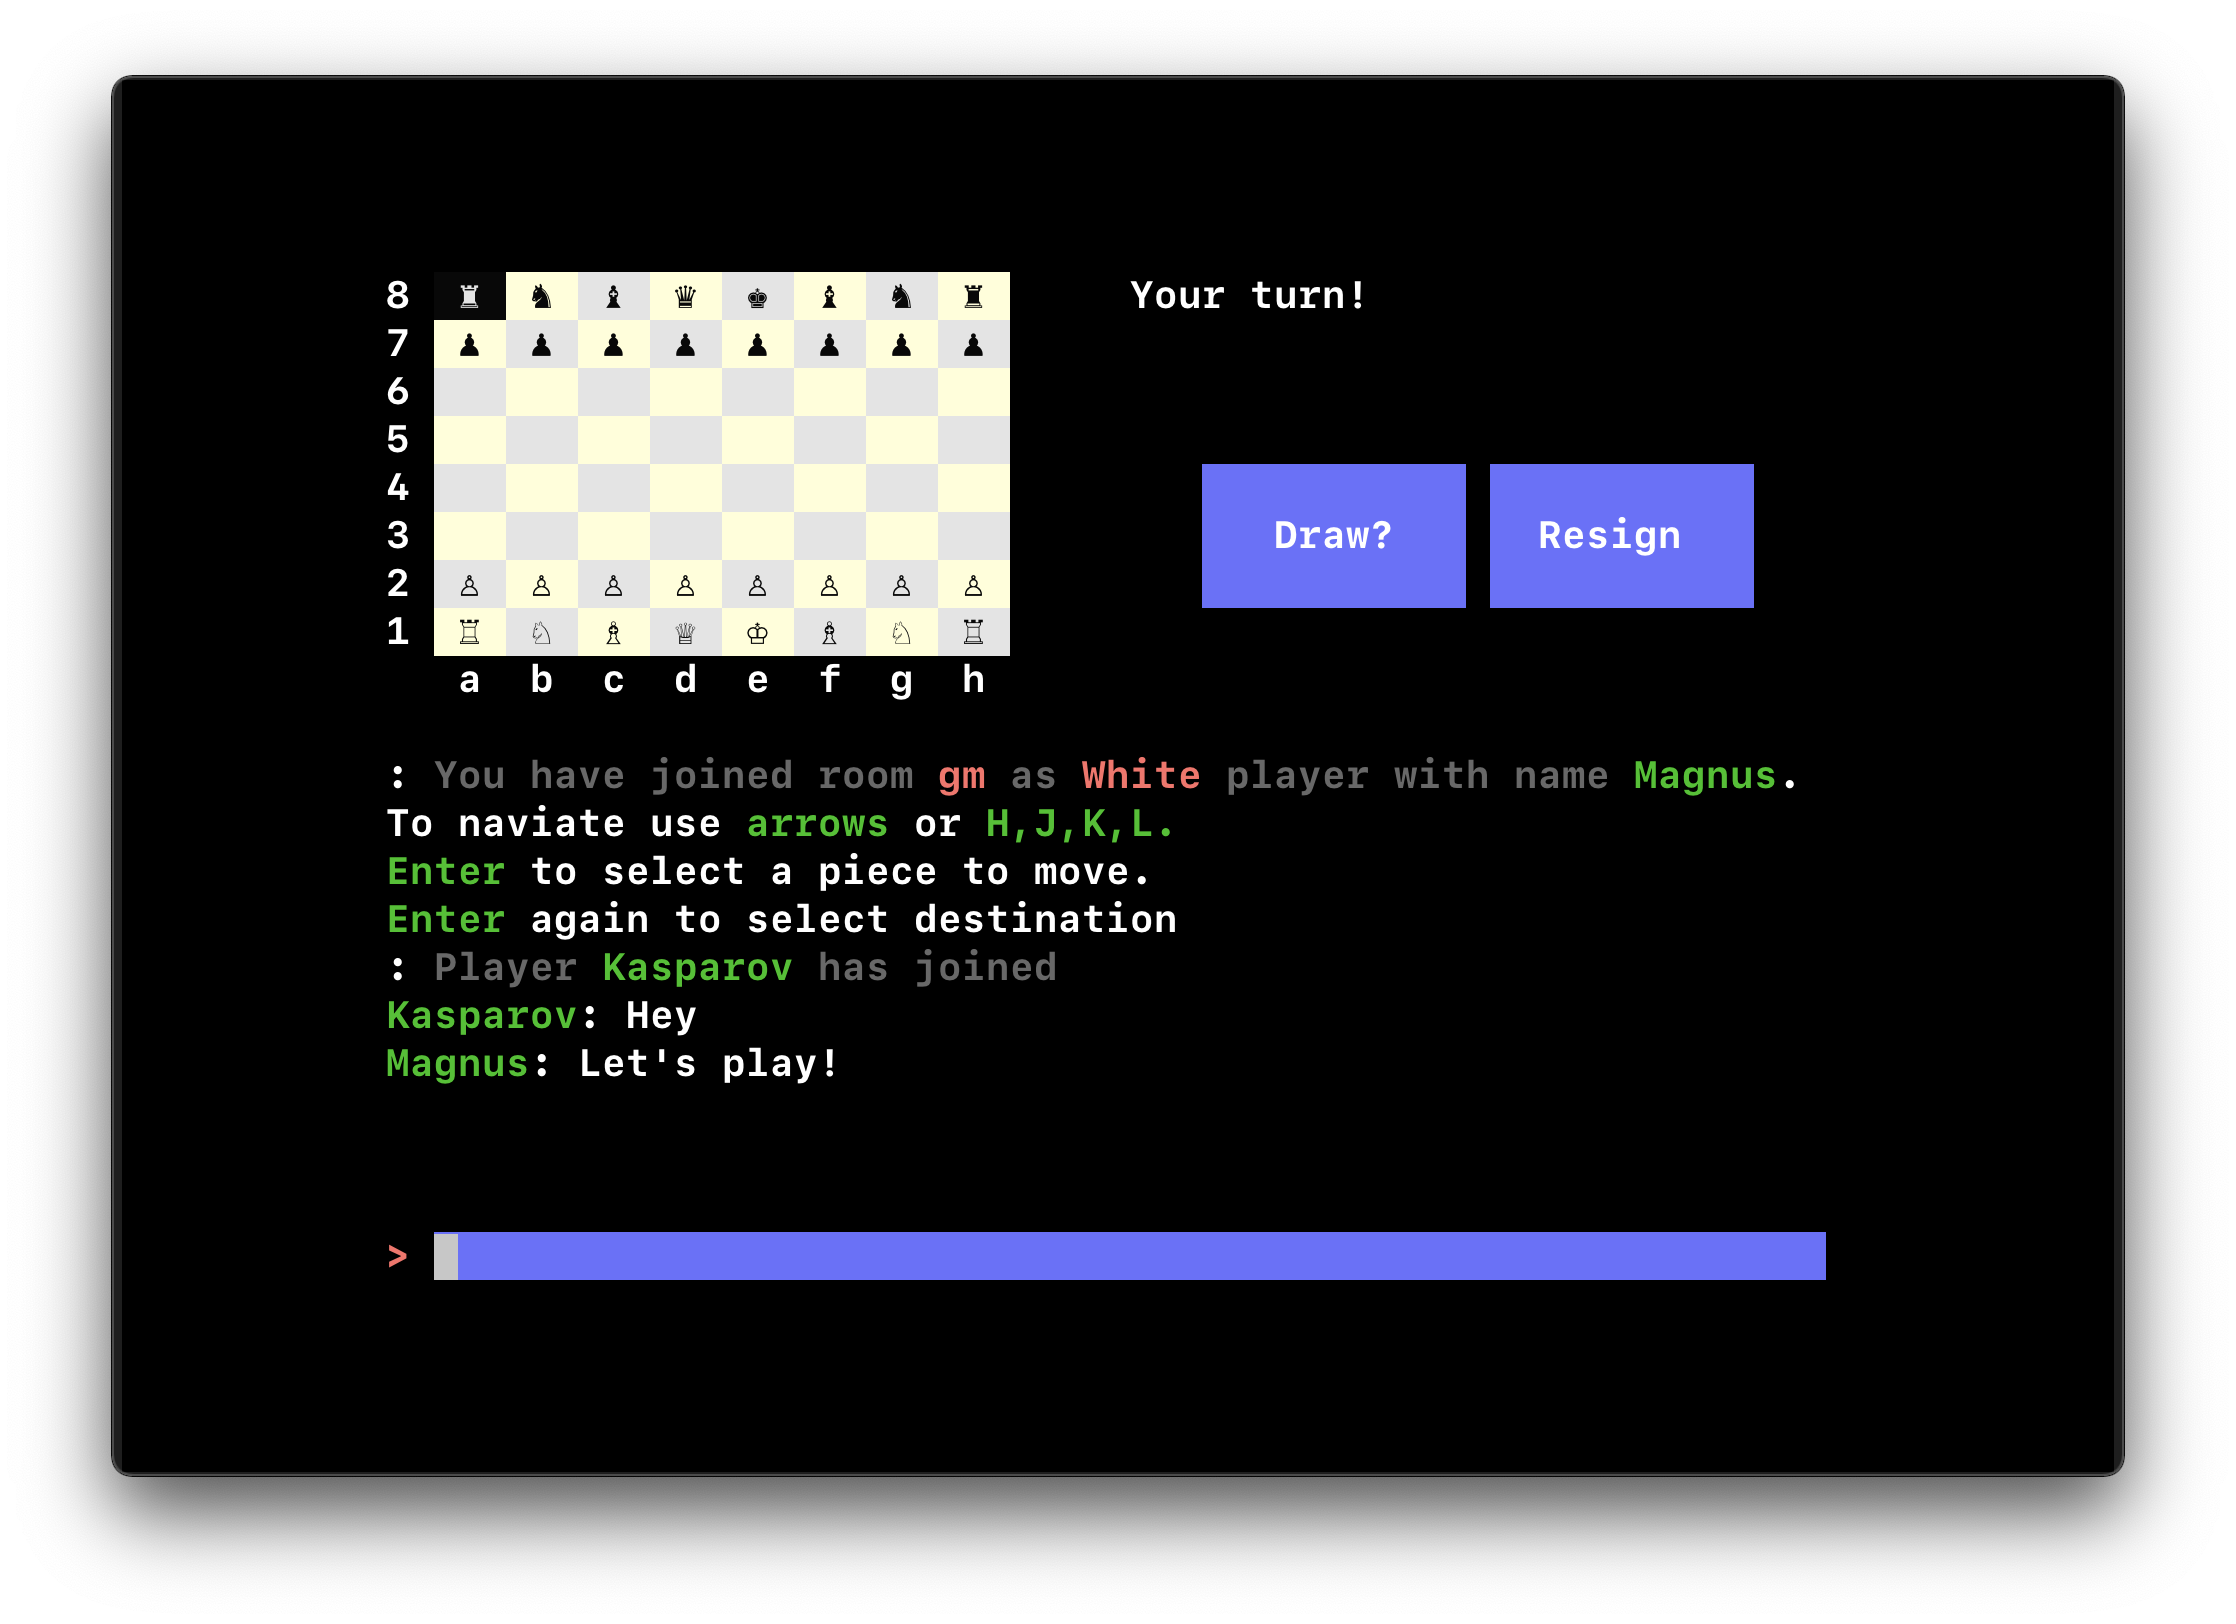
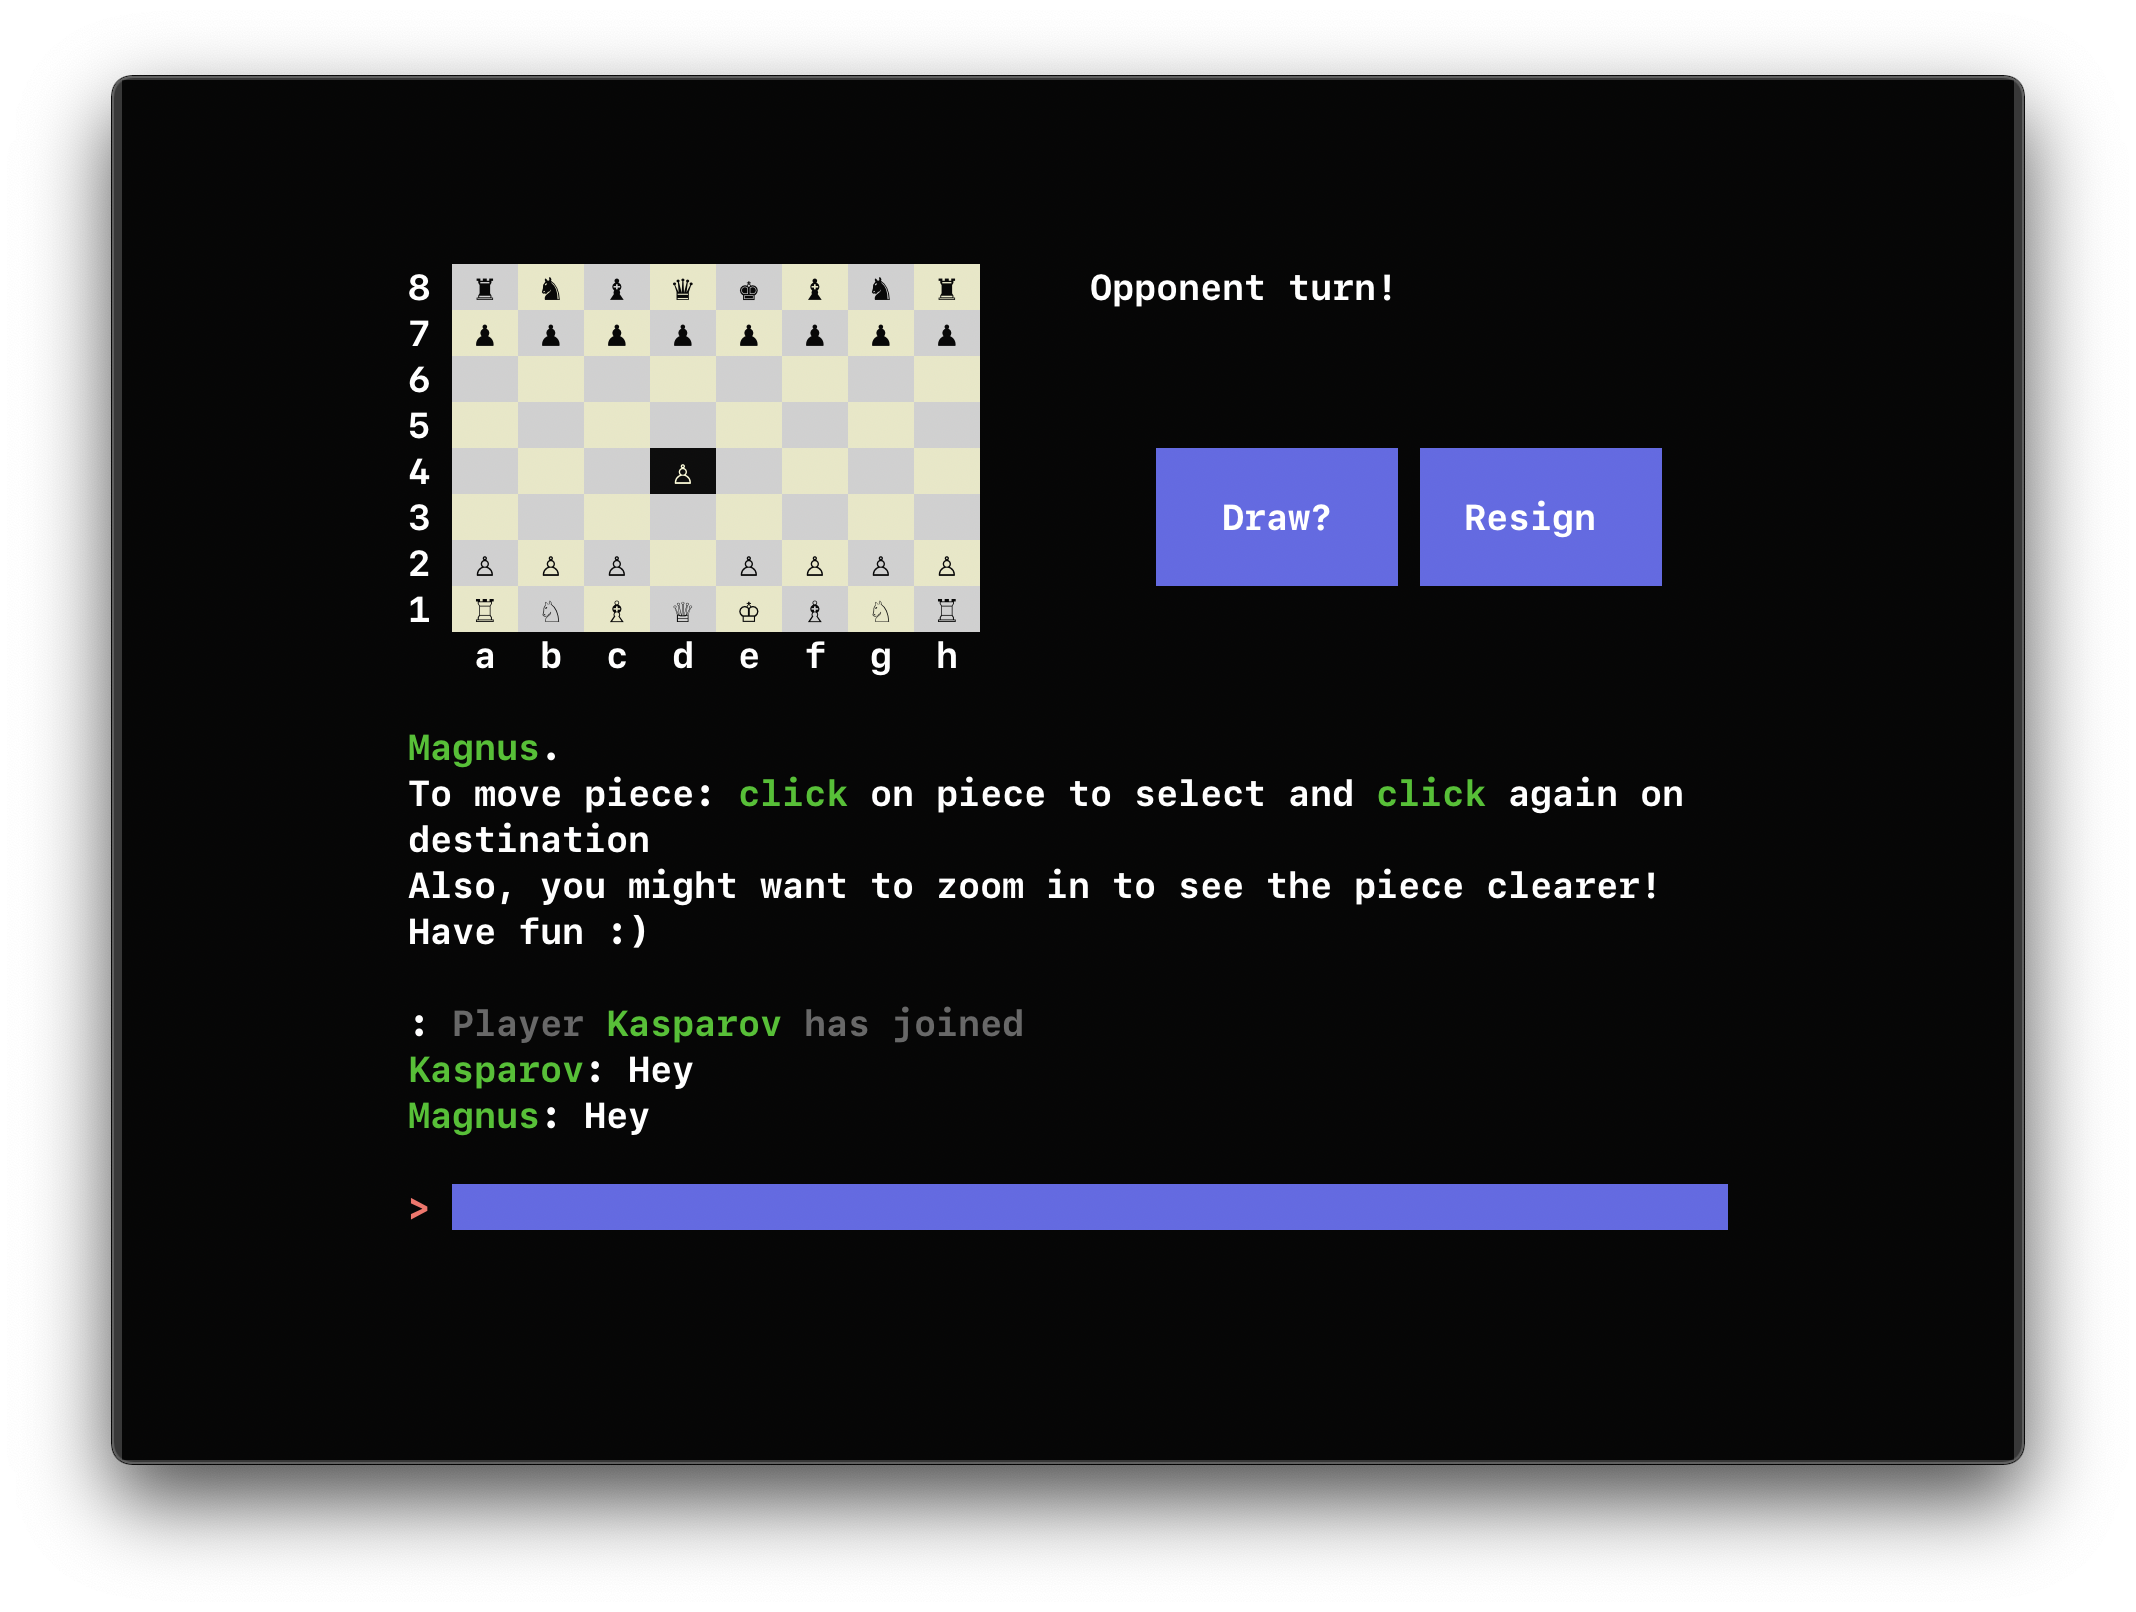
move use mouse instead of keyboard

diff --git a/pkg/client.go b/pkg/client.go
@@ -13,19 +13,19 @@ import (
 )
 
 type Client struct {
-	Game          *chess.Game
-	App           *tview.Application
-	Board         *tview.Table
-	GameLayout    *tview.Grid
-	MenuLayout    *tview.Grid
-	Conn          net.Conn
-	In            chan MessageInterface
-	Out           chan MessageInterface
-	selecting     bool
-	lastSelection chess.Square
-	Role          PlayerRole
-	optionBtn1    *tview.Button // Draw, Accept, Yes
-	optionBtn2    *tview.Button // Resign, Reject, No
+	Game              *chess.Game
+	App               *tview.Application
+	Board             *tview.Table
+	GameLayout        *tview.Grid
+	MenuLayout        *tview.Grid
+	Conn              net.Conn
+	In                chan MessageInterface
+	Out               chan MessageInterface
+	selecting         bool
+	lastSelectedPiece chess.Square
+	Role              PlayerRole
+	optionBtn1        *tview.Button // Draw, Accept, Yes
+	optionBtn2        *tview.Button // Resign, Reject, No
 }
 
 var (
@@ -326,19 +326,24 @@ func (cl *Client) initBoard() {
 		if key == tcell.KeyEnter {
 			cl.Board.SetSelectable(true, true)
 		}
-	}).SetSelectedFunc(func(row, col int) {
+	}).SetSelectionChangedFunc(func(row, col int) {
 		sq := cl.posToSquare(row, col)
+		p := cl.Game.Position().Board().Piece(sq)
+		if (!cl.selecting && p == chess.NoPiece) ||
+			(cl.Role == White && p.Color() == chess.Black && !cl.selecting) ||
+			(cl.Role == Black && p.Color() == chess.White && !cl.selecting) {
+			return
+		}
 
 		if cl.selecting {
-			if sq == cl.lastSelection { // chose the last move to deactivate
+			if sq == cl.lastSelectedPiece { // chose the last move to deactivate
 				cl.selecting = false
 				cl.Board.GetCell(row, col).SetBackgroundColor(squareToColor(sq)) // Reset color
-				cl.lastSelection = 0
+				cl.lastSelectedPiece = 0
 			} else { // Chosing destination
-				move := fmt.Sprintf("%s%s", cl.lastSelection.String(), sq.String())
+				move := fmt.Sprintf("%s%s", cl.lastSelectedPiece.String(), sq.String())
 				validMoves := cl.Game.ValidMoves()
 				isValid := false
-				p := cl.Game.Position().Board().Piece(cl.lastSelection)
 				if p.Type() == chess.Pawn && ((move[1] == '7' && move[3] == '8') || move[1] == '2' && move[3] == '1') { // Auto promoting to Queen
 					move += "q"
 				}
@@ -348,28 +353,27 @@ func (cl *Client) initBoard() {
 					}
 				}
 				if !isValid {
-					last_row, last_col := cl.squareToPos(cl.lastSelection)
-					cl.Board.GetCell(last_row, last_col).SetBackgroundColor(squareToColor(cl.lastSelection)) // Reset color
+					last_row, last_col := cl.squareToPos(cl.lastSelectedPiece)
+					cl.Board.GetCell(last_row, last_col).SetBackgroundColor(squareToColor(cl.lastSelectedPiece)) // Reset color
 
 					cl.selecting = false
-					cl.lastSelection = 0
+					cl.lastSelectedPiece = 0
+					StatusTextView.SetText("Illegal move!")
 
 				} else { // success
-					last_row, last_col := cl.squareToPos(cl.lastSelection)
-					cl.Board.GetCell(last_row, last_col).SetBackgroundColor(squareToColor(cl.lastSelection)) // Reset color
+					last_row, last_col := cl.squareToPos(cl.lastSelectedPiece)
+					cl.Board.GetCell(last_row, last_col).SetBackgroundColor(squareToColor(cl.lastSelectedPiece)) // Reset color
 
 					cl.Out <- MessageMove{Move: move, Msg: "Hi"}
-					cl.lastSelection = 0
+					cl.lastSelectedPiece = 0
 					cl.selecting = false
-
 				}
 			}
 		} else {
 			cl.Board.GetCell(row, col).SetBackgroundColor(tcell.ColorRed)
 			cl.selecting = true
-			cl.lastSelection = sq
+			cl.lastSelectedPiece = sq
 		}
-
 	})
 }
 
@@ -417,7 +421,8 @@ func (cl *Client) renderBoard() {
 			color = squareToColor(sq)
 			cell := tview.NewTableCell(ps).
 				SetAlign(tview.AlignCenter).
-				SetBackgroundColor(color).SetTextColor(tcell.GetColor("#080808"))
+				SetBackgroundColor(color).
+				SetTextColor(tcell.GetColor("#080808"))
 			cl.Board.SetCell(r, f, cell)
 		}
 	}

diff --git a/pkg/match.go b/pkg/match.go
@@ -5,6 +5,7 @@ import (
 	"github.com/notnil/chess"
 	"github.com/notnil/chess/uci"
 	"log"
+	"math"
 	"net"
 	"strconv"
 	"strings"
@@ -110,9 +111,9 @@ func (m *Match) AddConn(conn net.Conn, name string) {
 
 	p.Out <- MessageGameChat{
 		Message: fmt.Sprintf(`[gray]You have joined room [red]%s[gray] as [red]%s[gray] player with name [green]%s[white].
-To naviate use [green]arrows[white] or [green]H,J,K,L[green].
-[green]Enter[white] to select a piece to move. 
-[green]Enter[white] again to select destination[white]`, m.Name, p.Role, strings.Title(p.Name)),
+To move piece: [green]click[white] on piece to select and [green]click[white] again on destination
+Also, you might want to zoom in to see the piece clearer! Have fun :)
+`, m.Name, p.Role, strings.Title(p.Name)),
 	}
 
 	log.Printf("Added a Player: %s", p.Role)
@@ -135,23 +136,27 @@ func (m *Match) HandleRead() {
 			// Validate if the sender is the one who allowed to move
 			if m.Players[messageTransport.PlayerId].Role == m.Turn {
 				m.Game.MoveStr(message.Move)
-				if m.PracticeMode {
-					m.Turn = White // Player is always white
-					log.Println("Processing")
-					m.Game.MoveStr(m.NextMove())
-					log.Println("Processed")
+				// Switch turn
+				if m.Turn == White {
+					m.Turn = Black
 				} else {
-					// Switch turn
-					if m.Turn == White {
-						m.Turn = Black
-					} else {
-						m.Turn = White
-					}
+					m.Turn = White
 				}
 				message := MessageGame{Fen: m.GameFEN()}
 				for _, p := range m.Players { // Broadcast the game to all users
 					message.IsTurn = p.Role == m.Turn
 					p.Out <- message
+				}
+
+				if m.PracticeMode {
+					time.Sleep(time.Second / 2) // Fake processing time
+					m.Turn = White              // Player is always white
+					m.Game.MoveStr(m.NextMove())
+					message := MessageGame{Fen: m.GameFEN()}
+					for _, p := range m.Players { // Broadcast the game to all users
+						message.IsTurn = p.Role == m.Turn
+						p.Out <- message
+					}
 				}
 
 				if m.Game.Outcome() != chess.NoOutcome {
@@ -269,7 +274,7 @@ func (m *Match) HandleRead() {
 
 func (m *Match) NextMove() string { // used for singple player mode
 	cmdPos := uci.CmdPosition{Position: m.Game.Position()}
-	cmdGo := uci.CmdGo{MoveTime: time.Second / time.Duration(200/m.PracticeLevel)} // the higher the level the longer the compute
+	cmdGo := uci.CmdGo{MoveTime: time.Second / time.Duration(200/math.Pow(float64(m.PracticeLevel), 2.))} // the higher the level the longer the compute
 	if err := m.Engine.Run(cmdPos, cmdGo); err != nil {
 		panic(err)
 	}

diff --git a/pkg/server.go b/pkg/server.go
@@ -216,9 +216,9 @@ func (s *Server) HandleConn(sconn ServerConn) {
 				var matchName string
 				matchName = message.Argument
 
-				if matchName == "" {
+				if matchName == "" { // join random
 					for matchId, match := range s.Matches {
-						if len(match.Players) < 2 {
+						if len(match.Players) < 2 && !match.PracticeMode {
 							s.AddConn(sconn.Conn, matchId, sconn.Name)
 							return
 						}
